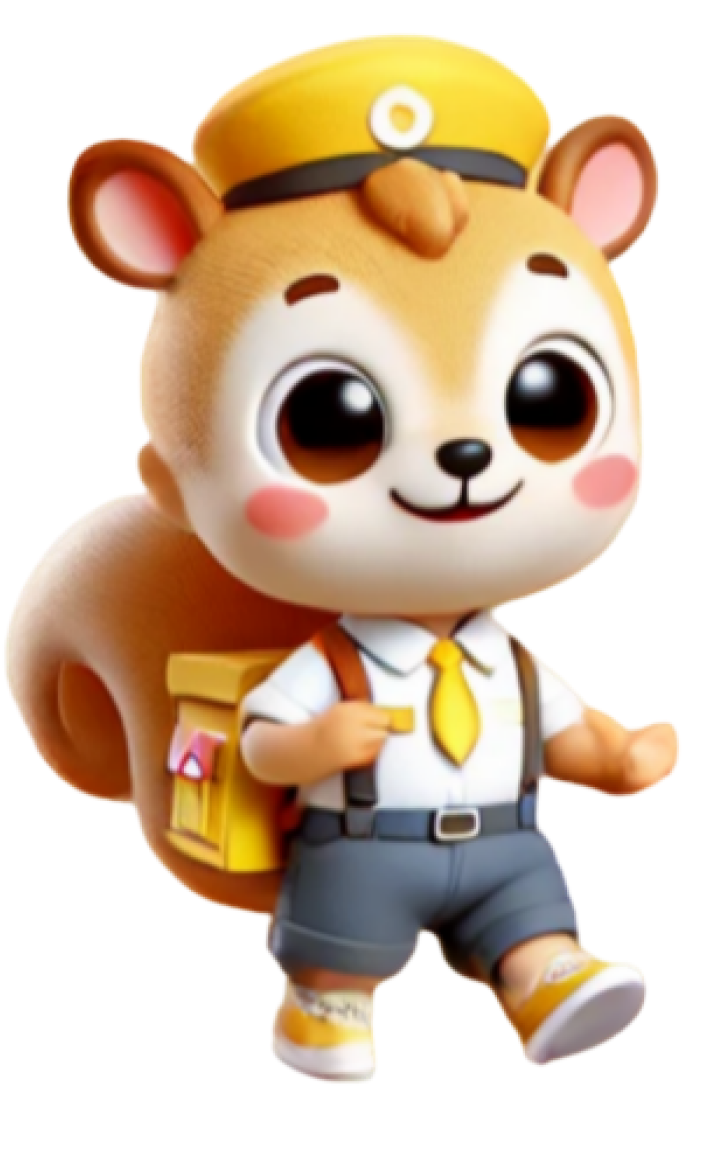
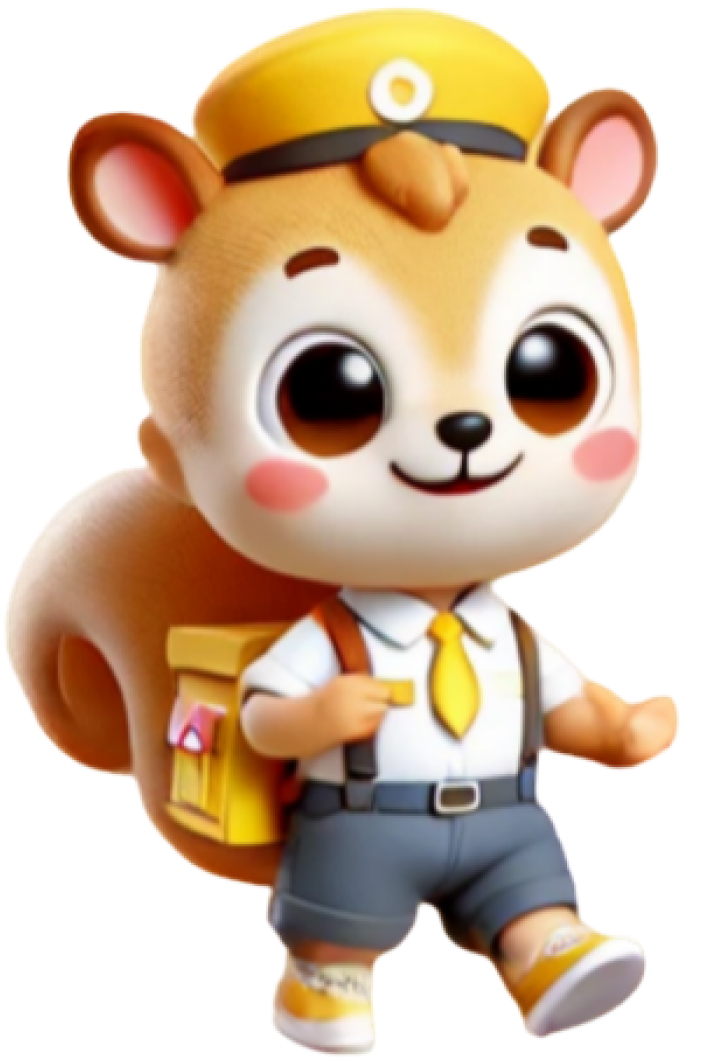
fix: 다람쥐 사진 크기 조절

diff --git a/frontend/src/layouts/TeacherLayout.tsx b/frontend/src/layouts/TeacherLayout.tsx
@@ -22,7 +22,7 @@ interface Alarm {
   code: string;
 }
 
-const TeacherLayout = ({ children, activeMenu, setActiveMenu, titleComponent, imageSrc }: any) => {
+export default function TeacherLayout ({ children, activeMenu, setActiveMenu, titleComponent, imageSrc }: any) {
   const [isSidebarOpen, setIsSidebarOpen] = useState(true);
   const { openModal, closeModal, Modal, isModalOpen } = useModal();
   const [alertList, setAlertList] = useState<Alarm[]>([]);
@@ -118,63 +118,63 @@ const TeacherLayout = ({ children, activeMenu, setActiveMenu, titleComponent, im
       if (activeMenu === 'ourclass') {
           return (
               <div className="flex items-center space-x-2">
-                  {imageSrc && <img src={imageSrc} alt="다람쥐" className="ml-4 w-12 h-16 lg:w-16 lg:h-24 mr-1" />}
+                  {imageSrc && <img src={imageSrc} alt="다람쥐" className="ml-4 w-12 h-16 lg:w-16 lg:h-24 mr-2 object-contain" />}
                   {titleComponent}
               </div>
           );
       } else if (activeMenu === 'schedule') {
           return (
               <div className="flex items-center space-x-2">
-                  {imageSrc && <img src={imageSrc} alt="다람쥐" className="ml-4 w-12 h-16 lg:w-16 lg:h-24 mr-1" />}
+                  {imageSrc && <img src={imageSrc} alt="다람쥐" className="ml-4 w-12 h-16 lg:w-16 lg:h-24 mr-2 object-contain" />}
                   {titleComponent}
               </div>
           );
       } else if (activeMenu === 'album') {
           return (
               <div className="flex items-center space-x-2">
-                  {imageSrc && <img src={imageSrc} alt="다람쥐" className="ml-4 w-12 h-16 lg:w-16 lg:h-24 mr-1" />}
+                  {imageSrc && <img src={imageSrc} alt="다람쥐" className="ml-4 w-12 h-16 lg:w-16 lg:h-24 mr-1 object-contain" />}
                   {titleComponent}
               </div>
           );
       } else if (activeMenu === 'meeting') {
           return (
               <div className="flex items-center space-x-2">
-                  {imageSrc && <img src={imageSrc} alt="다람쥐" className="ml-4 w-12 h-16 lg:w-16 lg:h-24 mr-1" />}
+                  {imageSrc && <img src={imageSrc} alt="다람쥐" className="ml-4 w-12 h-16 lg:w-16 lg:h-24 mr-2 object-contain" />}
                   {titleComponent}
               </div>
           );
       } else if (activeMenu === 'notice') {
           return (
               <div className="flex items-center space-x-2">
-                  {imageSrc && <img src={imageSrc} alt="다람쥐" className="ml-4 w-12 h-16 lg:w-16 lg:h-24 mr-1" />}
+                  {imageSrc && <img src={imageSrc} alt="다람쥐" className="ml-4 w-12 h-16 lg:w-16 lg:h-24 mr-2 object-contain" />}
                   {titleComponent}
               </div>
           );
       } else if (activeMenu === 'growth') {
           return (
               <div className="flex items-center space-x-2">
-                  {imageSrc && <img src={imageSrc} alt="다람쥐" className="ml-4 w-12 h-16 lg:w-16 lg:h-24 mr-1" />}
+                  {imageSrc && <img src={imageSrc} alt="다람쥐" className="ml-4 w-12 h-16 lg:w-16 lg:h-24 mr-2 object-contain" />}
                   {titleComponent}
               </div>
           );
       } else if (activeMenu === 'document') {
           return (
               <div className="flex items-center space-x-2">
-                  {imageSrc && <img src={imageSrc} alt="다람쥐" className="ml-4 w-12 h-16 lg:w-16 lg:h-24 mr-1" />}
+                  {imageSrc && <img src={imageSrc} alt="다람쥐" className="ml-4 w-12 h-16 lg:w-16 lg:h-24 mr-2 object-contain" />}
                   {titleComponent}
               </div>
           );
       } else if (activeMenu === 'bus') {
           return (
               <div className="flex items-center space-x-2">
-                  {imageSrc && <img src={imageSrc} alt="다람쥐" className="ml-4 w-12 h-16 lg:w-16 lg:h-24 mr-1" />}
+                  {imageSrc && <img src={imageSrc} alt="다람쥐" className="ml-4 w-12 h-16 lg:w-16 lg:h-24 mr-2 object-contain" />}
                   {titleComponent}
               </div>
           );
       } else if (activeMenu === 'mypage') {
           return (
               <div className="flex items-center space-x-2">
-                  {imageSrc && <img src={imageSrc} alt="다람쥐" className="ml-4 w-12 h-16 lg:w-16 lg:h-24 mr-1" />}
+                  {imageSrc && <img src={imageSrc} alt="다람쥐" className="ml-4 w-12 h-16 lg:w-16 lg:h-24 mr-2 object-contain" />}
                   {titleComponent}
               </div>
           );
@@ -189,38 +189,78 @@ const TeacherLayout = ({ children, activeMenu, setActiveMenu, titleComponent, im
                         <p className="text-[36px] font-bold text-left font-Cafe24Ssurround gradient-text cursor-pointer">키즈링크</p>
                     </Link>
                     <div className="flex flex-col space-y-4">
-                        <Link to="/" className={`flex items-center py-3 pl-8 transition-colors duration-300 bg-left bg-no-repeat bg-[length:200%_100%] ${activeMenu === 'ourclass' ? 'bg-[#FFF9D7] border-r-8 border-[#FFEC8A]' : 'hover:bg-[#FFF9D7] hover:bg-right hover:bg-[length:100%_100%]'}`} onClick={() => setActiveMenu('ourclass')}>
-                            <img src={ourClassIcon} alt="우리반 보기" className="w-8 h-8 mr-5" />
-                            <span className="text-gray-700 text-[17px]">우리반 보기</span>
-                        </Link>
-                        <Link to="/schedule" className={`flex items-center py-3 pl-8 transition-colors duration-300 bg-left bg-no-repeat bg-[length:200%_100%] ${activeMenu === 'schedule' ? 'bg-[#FFF9D7] border-r-8 border-[#FFEC8A]' : 'hover:bg-[#FFF9D7] hover:bg-right hover:bg-[length:100%_100%]'}`} onClick={() => setActiveMenu('schedule')}>
-                            <img src={scheduleIcon} alt="일정 관리" className="w-8 h-8 mr-5" />
-                            <span className="text-gray-700 text-[17px]">일정관리</span>
-                        </Link>
-                        <Link to="/album" className={`flex items-center py-3 pl-8 transition-colors duration-300 bg-left bg-no-repeat bg-[length:200%_100%] ${activeMenu === 'album' ? 'bg-[#FFF9D7] border-r-8 border-[#FFEC8A]' : 'hover:bg-[#FFF9D7] hover:bg-right hover:bg-[length:100%_100%]'}`} onClick={() => setActiveMenu('album')}>
-                            <img src={albumIcon} alt="사진분류" className="w-8 h-8 mr-5" />
-                            <span className="text-gray-700 text-[17px]">사진분류</span>
-                        </Link>
-                        <Link to="/bus" className={`flex items-center py-3 pl-8 transition-colors duration-300 bg-left bg-no-repeat bg-[length:200%_100%] ${activeMenu === 'bus' ? 'bg-[#FFF9D7] border-r-8 border-[#FFEC8A]' : 'hover:bg-[#FFF9D7] hover:bg-right hover:bg-[length:100%_100%]'}`} onClick={() => setActiveMenu('bus')}>
-                            <img src={busIcon} alt="등하원 관리" className="w-8 h-8 mr-5" />
-                            <span className="text-gray-700 text-[17px]">등하원 관리</span>
-                        </Link>
-                        <Link to="/meeting" className={`flex items-center py-3 pl-8 transition-colors duration-300 bg-left bg-no-repeat bg-[length:200%_100%] ${activeMenu === 'meeting' ? 'bg-[#FFF9D7] border-r-8 border-[#FFEC8A]' : 'hover:bg-[#FFF9D7] hover:bg-right hover:bg-[length:100%_100%]'}`} onClick={() => setActiveMenu('meeting')}>
-                            <img src={consultingIcon} alt="화상 상담" className="w-8 h-8 mr-5" />
-                            <span className="text-gray-700 text-[17px]">화상 상담</span>
-                        </Link>
-                        <Link to="/notice" className={`flex items-center py-3 pl-8 transition-colors duration-300 bg-left bg-no-repeat bg-[length:200%_100%] ${activeMenu === 'notice' ? 'bg-[#FFF9D7] border-r-8 border-[#FFEC8A]' : 'hover:bg-[#FFF9D7] hover:bg-right hover:bg-[length:100%_100%]'}`} onClick={() => setActiveMenu('notice')}>
-                            <img src={noticeIcon} alt="알림장" className="w-8 h-8 mr-5" />
-                            <span className="text-gray-700 text-[17px]">알림장</span>
-                        </Link>
-                        <Link to="/growth" className={`flex items-center py-3 pl-8 transition-colors duration-300 bg-left bg-no-repeat bg-[length:200%_100%] ${activeMenu === 'growth' ? 'bg-[#FFF9D7] border-r-8 border-[#FFEC8A]' : 'hover:bg-[#FFF9D7] hover:bg-right hover:bg-[length:100%_100%]'}`} onClick={() => setActiveMenu('growth')}>
-                            <img src={growthdiaryIcon} alt="성장일지" className="w-8 h-8 mr-5" />
-                            <span className="text-gray-700 text-[17px]">성장일지</span>
-                        </Link>
-                        <Link to="/document" className={`flex items-center py-3 pl-8 transition-colors duration-300 bg-left bg-no-repeat bg-[length:200%_100%] ${activeMenu === 'document' ? 'bg-[#FFF9D7] border-r-8 border-[#FFEC8A]' : 'hover:bg-[#FFF9D7] hover:bg-right hover:bg-[length:100%_100%]'}`} onClick={() => setActiveMenu('document')}>
-                            <img src={documentIcon} alt="문서관리" className="w-8 h-8 mr-5" />
-                            <span className="text-gray-700 text-[17px]">문서관리</span>
-                        </Link>
+                    <Link
+    to="/"
+    className={`flex items-center py-3 pl-8 transition-colors duration-300 bg-left bg-no-repeat bg-[length:200%_100%] ${activeMenu === 'ourclass' ? 'bg-[#FFF9D7] border-r-8 border-[#FFEC8A]' : 'hover:bg-[#FFF9D7] hover:bg-right hover:bg-[length:100%_100%]'}`}
+    onClick={() => setActiveMenu('ourclass')}
+>
+    <img src={ourClassIcon} alt="우리반 보기" className="w-8 h-8 mr-5" />
+    <span className={`text-[17px] ${activeMenu === 'ourclass' ? 'font-bold text-gray-800' : 'text-gray-700'}`}>우리반 보기</span>
+</Link>
+
+<Link
+    to="/schedule"
+    className={`flex items-center py-3 pl-8 transition-colors duration-300 bg-left bg-no-repeat bg-[length:200%_100%] ${activeMenu === 'schedule' ? 'bg-[#FFF9D7] border-r-8 border-[#FFEC8A]' : 'hover:bg-[#FFF9D7] hover:bg-right hover:bg-[length:100%_100%]'}`}
+    onClick={() => setActiveMenu('schedule')}
+>
+    <img src={scheduleIcon} alt="일정 관리" className="w-8 h-8 mr-5" />
+    <span className={`text-[17px] ${activeMenu === 'schedule' ? 'font-bold text-gray-800' : 'text-gray-700'}`}>일정관리</span>
+</Link>
+
+<Link
+    to="/album"
+    className={`flex items-center py-3 pl-8 transition-colors duration-300 bg-left bg-no-repeat bg-[length:200%_100%] ${activeMenu === 'album' ? 'bg-[#FFF9D7] border-r-8 border-[#FFEC8A]' : 'hover:bg-[#FFF9D7] hover:bg-right hover:bg-[length:100%_100%]'}`}
+    onClick={() => setActiveMenu('album')}
+>
+    <img src={albumIcon} alt="사진분류" className="w-8 h-8 mr-5" />
+    <span className={`text-[17px] ${activeMenu === 'album' ? 'font-bold text-gray-800' : 'text-gray-700'}`}>사진분류</span>
+</Link>
+
+<Link
+    to="/bus"
+    className={`flex items-center py-3 pl-8 transition-colors duration-300 bg-left bg-no-repeat bg-[length:200%_100%] ${activeMenu === 'bus' ? 'bg-[#FFF9D7] border-r-8 border-[#FFEC8A]' : 'hover:bg-[#FFF9D7] hover:bg-right hover:bg-[length:100%_100%]'}`}
+    onClick={() => setActiveMenu('bus')}
+>
+    <img src={busIcon} alt="등하원 관리" className="w-8 h-8 mr-5" />
+    <span className={`text-[17px] ${activeMenu === 'bus' ? 'font-bold text-gray-800' : 'text-gray-700'}`}>등하원 관리</span>
+</Link>
+
+<Link
+    to="/meeting"
+    className={`flex items-center py-3 pl-8 transition-colors duration-300 bg-left bg-no-repeat bg-[length:200%_100%] ${activeMenu === 'meeting' ? 'bg-[#FFF9D7] border-r-8 border-[#FFEC8A]' : 'hover:bg-[#FFF9D7] hover:bg-right hover:bg-[length:100%_100%]'}`}
+    onClick={() => setActiveMenu('meeting')}
+>
+    <img src={consultingIcon} alt="화상 상담" className="w-8 h-8 mr-5" />
+    <span className={`text-[17px] ${activeMenu === 'meeting' ? 'font-bold text-gray-800' : 'text-gray-700'}`}>화상 상담</span>
+</Link>
+
+<Link
+    to="/notice"
+    className={`flex items-center py-3 pl-8 transition-colors duration-300 bg-left bg-no-repeat bg-[length:200%_100%] ${activeMenu === 'notice' ? 'bg-[#FFF9D7] border-r-8 border-[#FFEC8A]' : 'hover:bg-[#FFF9D7] hover:bg-right hover:bg-[length:100%_100%]'}`}
+    onClick={() => setActiveMenu('notice')}
+>
+    <img src={noticeIcon} alt="알림장" className="w-8 h-8 mr-5" />
+    <span className={`text-[17px] ${activeMenu === 'notice' ? 'font-bold text-gray-800' : 'text-gray-700'}`}>알림장</span>
+</Link>
+
+<Link
+    to="/growth"
+    className={`flex items-center py-3 pl-8 transition-colors duration-300 bg-left bg-no-repeat bg-[length:200%_100%] ${activeMenu === 'growth' ? 'bg-[#FFF9D7] border-r-8 border-[#FFEC8A]' : 'hover:bg-[#FFF9D7] hover:bg-right hover:bg-[length:100%_100%]'}`}
+    onClick={() => setActiveMenu('growth')}
+>
+    <img src={growthdiaryIcon} alt="성장일지" className="w-8 h-8 mr-5" />
+    <span className={`text-[17px] ${activeMenu === 'growth' ? 'font-bold text-gray-800' : 'text-gray-700'}`}>성장일지</span>
+</Link>
+
+<Link
+    to="/document"
+    className={`flex items-center py-3 pl-8 transition-colors duration-300 bg-left bg-no-repeat bg-[length:200%_100%] ${activeMenu === 'document' ? 'bg-[#FFF9D7] border-r-8 border-[#FFEC8A]' : 'hover:bg-[#FFF9D7] hover:bg-right hover:bg-[length:100%_100%]'}`}
+    onClick={() => setActiveMenu('document')}
+>
+    <img src={documentIcon} alt="문서관리" className="w-8 h-8 mr-5" />
+    <span className={`text-[17px] ${activeMenu === 'document' ? 'font-bold text-gray-800' : 'text-gray-700'}`}>문서관리</span>
+</Link>
+
                     </div>
                 </aside>
 
@@ -238,7 +278,7 @@ const TeacherLayout = ({ children, activeMenu, setActiveMenu, titleComponent, im
           <main className={`flex-1 transition-all duration-300 ${isSidebarOpen ? 'ml-60' : 'ml-0'} p-8 min-h-screen max-h-screen bg-[#F5F5F5] overflow-hidden`}>
                     {/* 헤더와 페이지 타이틀 영역 */}
                     <div className="flex justify-between items-center mb-4">
-                        <h1 className="text-2xl font-semibold text-gray-800">{getMenuTitle()}</h1>
+                        <h1 className="text-[22px] font-semibold text-gray-800">{getMenuTitle()}</h1>
                         <div className="fixed top-4 right-8 flex items-center space-x-4">
                             <div className="relative mt-4 mr-1" onClick={() => openAlarmModal()}>
                                 <BiBell className="w-[32px] h-[32px] cursor-pointer text-gray-700" />
@@ -262,5 +302,3 @@ const TeacherLayout = ({ children, activeMenu, setActiveMenu, titleComponent, im
         </>
     );
 };
-
-export default TeacherLayout;

diff --git a/frontend/src/pages/teacher/TeacherMeeting.tsx b/frontend/src/pages/teacher/TeacherMeeting.tsx
@@ -1,7 +1,6 @@
 import { useEffect, useState } from "react";
 import { Link } from "react-router-dom";
 import Title from "../../components/teacher/common/Title";
-import ProfileImg from '../../assets/teacher/profile_img.jpg';
 import { getOneParentInfo } from "../../api/Info";
 import TeacherMeetingSchedule from "../../components/teacher/consulting/TeacherMeetingSchedule";
 import { isMeetingActive, isMeetingVisible } from "../../utils/meeting";
@@ -9,6 +8,7 @@ import { ParentTeacherMeeting } from "../../types/meeting";
 import { getConfirmedMeeting } from "../../api/meeting";
 import TeacherLayout from '../../layouts/TeacherLayout';
 import daramgi from "../../assets/teacher/meeting-daramgi.png";
+import DefaultImg from "../../assets/teacher/default_profile.png";
 
 export default function TeacherMeeting() {
   const [meetings, setMeetings] = useState<ParentTeacherMeeting[]>([]);
@@ -25,14 +25,14 @@ export default function TeacherMeeting() {
               return { 
                 ...meeting, 
                 childName: parentInfo.child.name,
-                parentProfile: parentInfo.profile || ProfileImg // Use default profile image if not available
+                parentProfile: parentInfo.profile || DefaultImg // Use default profile image if not available
               };
             } catch (error) {
               console.error(`Error fetching parent info for ID ${meeting.parentId}:`, error);
               return { 
                 ...meeting, 
                 childName: "알 수 없음",
-                parentProfile: ProfileImg // Use default profile image if error occurs
+                parentProfile: DefaultImg // Use default profile image if error occurs
               };
             }
           })

diff --git a/frontend/src/components/teacher/common/Title.tsx b/frontend/src/components/teacher/common/Title.tsx
@@ -46,7 +46,7 @@ export default function Title({ title, tooltipContent, tabs }: TitleProps) {
                             <Link
                                 key={index}
                                 to={tab.link}
-                                className={`mx-2 px-5 py-1 rounded-full ${
+                                className={`mx-2 px-5 py-1.5 rounded-full ${
                                     isActive ? 'bg-[#8CAD1E] text-white' : 'bg-gray-200 text-gray-700'
                                 } hover:bg-[#8CAD1E] hover:text-white transition duration-300 text-[17px]`}
                             >
